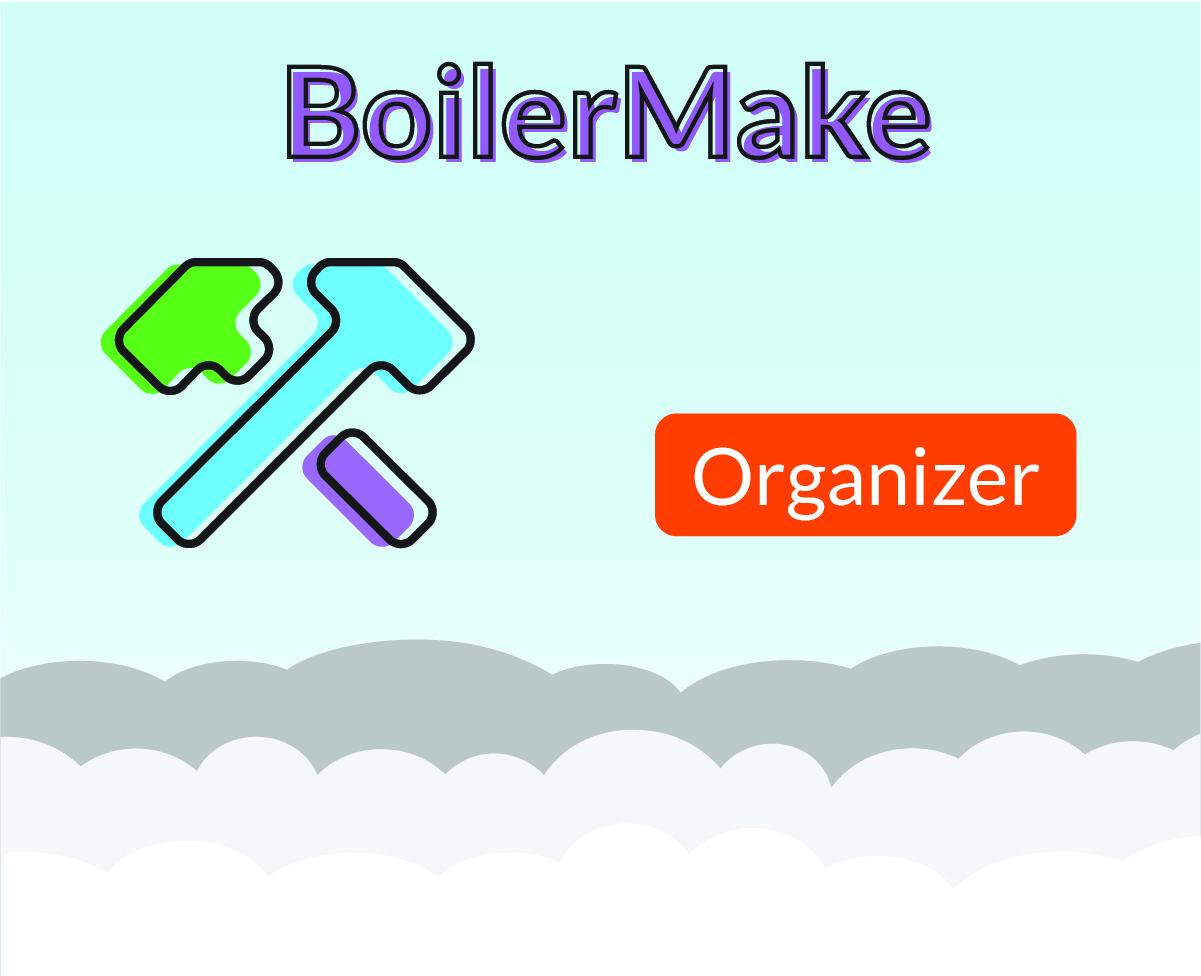
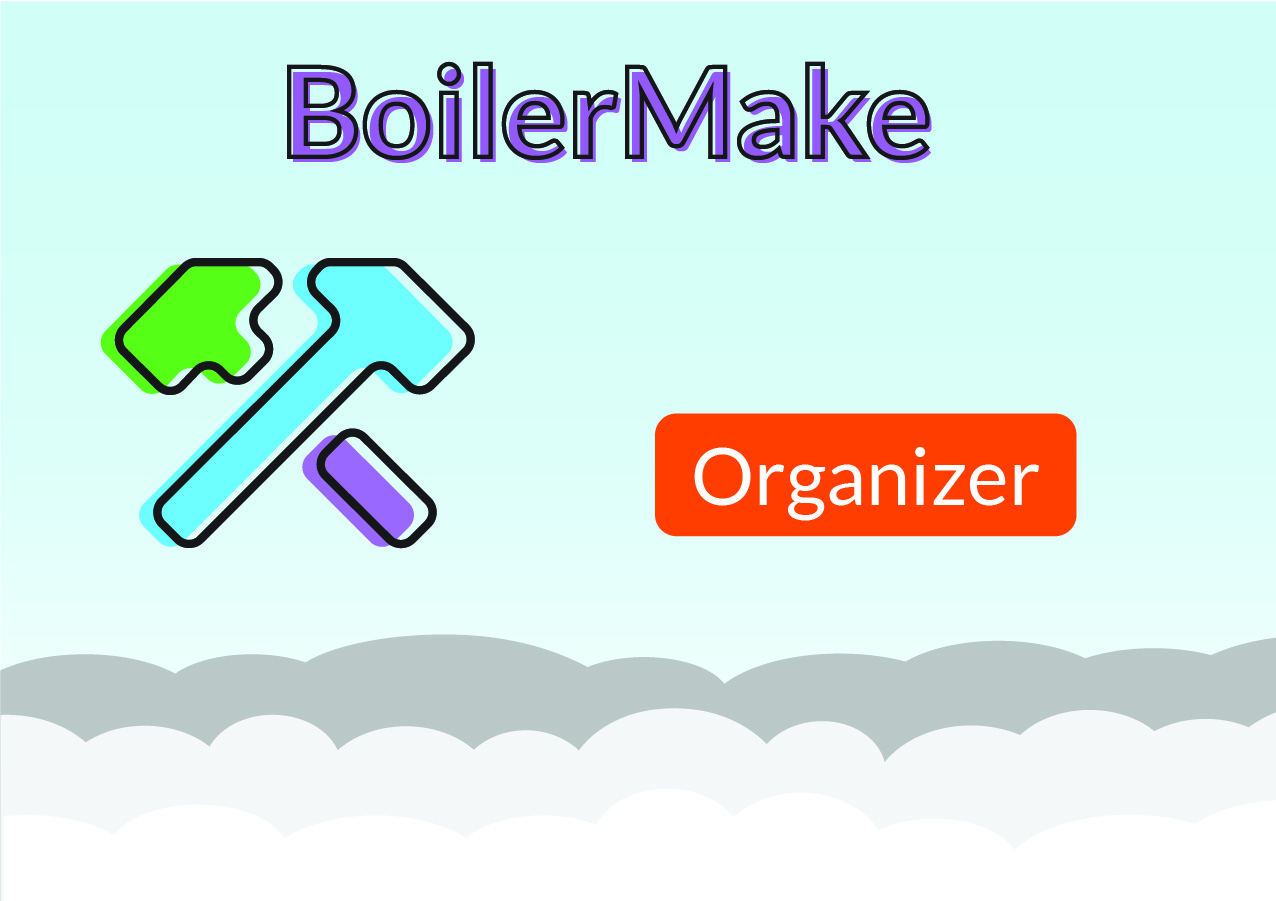
Fixed offsets and sizing for access cards. Now on letter sized vs A4 paper

diff --git a/HackerCardGenerator.py b/HackerCardGenerator.py
@@ -7,14 +7,14 @@ Since: 10/16/2018
 import csv
 from reportlab.pdfgen import canvas
 from reportlab.lib.units import inch
+from reportlab.lib.pagesizes import letter
 from reportlab.pdfbase import pdfmetrics
 from reportlab.pdfbase.ttfonts import TTFont
 
 # Constant Values. Do not change
-edge_offset = .15 * inch
-bottom_offset = 1 * inch
-AC_width = 4 * inch
-AC_height = 3.25 * inch
+bottom_offset = 2 * inch
+AC_width = 4.25 * inch
+AC_height = 3 * inch
 
 # Variable Values, change depending on the needs / paths.
 font_name = "Lato-Regular"
@@ -24,7 +24,7 @@ icon_path = "Resources/language_icons_jpg/"
 pdf_file_name = "hackers.pdf"
 
 # Define our canvas.
-c = canvas.Canvas(pdf_file_name)
+c = canvas.Canvas(pdf_file_name, pagesize=letter)
 
 # Import font from .ttf file.
 pdfmetrics.registerFont(TTFont(font_name, font_path))
@@ -58,10 +58,10 @@ class Person:
             self.university = "IUPUI"
         elif university == "Indiana University/Purdue University at Fort Wayne":
             self.university = "IPFW"
-        elif university == "University of Illinois-Urbana-Champaign":
-            self.university = "UIUC"
-        elif university == "Rose-Hulman Institute of Technology":
-            self.university = "RHIT"
+        # elif university == "University of Illinois-Urbana-Champaign":
+        #     self.university = "UIUC"
+        # elif university == "Rose-Hulman Institute of Technology":
+        #     self.university = "RHIT"
 
 
 def draw_left(i, hacker):
@@ -73,49 +73,49 @@ def draw_left(i, hacker):
     """
 
     # Draws an empty badge on the canvas.
-    c.drawImage(jpg_path, edge_offset, bottom_offset + i * AC_height, width=AC_width,
+    c.drawImage(jpg_path, 0, bottom_offset + i * AC_height, width=AC_width,
                 height=AC_height, mask=None)
 
     # Check length of hacker name to set the font.
-    if hacker.name_len <= 18:
+    if hacker.name_len <= 22:
         c.setFont(font_name, 16)
     else:
-        c.setFont(font_name, 12)
+        c.setFont(font_name, 14)
 
     # Draws the first and last name on the badge.
-    c.drawCentredString(x=edge_offset + 2.9 * inch, y=bottom_offset + 2.25 * inch + i * AC_height,
+    c.drawCentredString(x=2.9 * inch, y=bottom_offset + 2 * inch + i * AC_height,
                         text=hacker.first_name + " " + hacker.last_name)
 
     # Draws the school on the badge.
     c.setFont(font_name, 10)
-    c.drawCentredString(x=edge_offset + 2.9 * inch, y=bottom_offset + 2 * inch + i * AC_height,
+    c.drawCentredString(x=0 + 2.9 * inch, y=bottom_offset + 1.75 * inch + i * AC_height,
                         text=hacker.university)
 
     # Draws the skill icon(s) on the badge, depending if they have 1, 2, or 3 skills.
     if len(hacker.skills) == 1 and hacker.skills[0] != "null" and hacker.skills[0].strip('\\') != "":
-        c.drawImage(icon_path + hacker.skills[0].strip('\\') + ".jpg", edge_offset + 1.75 * inch,
+        c.drawImage(icon_path + hacker.skills[0].strip('\\') + ".jpg", 1.875 * inch,
                     bottom_offset + 0.1 * inch + i * AC_height, width=30, height=30, mask=None)
     elif len(hacker.skills) == 2:
         n = 0
         for skill in hacker.skills:
             if n == 1:
-                c.drawImage(icon_path + skill.strip('\\') + ".jpg", edge_offset + 1.375 * inch,
+                c.drawImage(icon_path + skill.strip('\\') + ".jpg", 1.425 * inch,
                             bottom_offset + 0.1 * inch + i * AC_height, width=30, height=30, mask=None)
             else:
-                c.drawImage(icon_path + skill.strip('\\') + ".jpg", edge_offset + 2.125 * inch,
+                c.drawImage(icon_path + skill.strip('\\') + ".jpg", 2.325 * inch,
                             bottom_offset + 0.1 * inch + i * AC_height, width=30, height=30, mask=None)
             n += 1
     elif len(hacker.skills) == 3:
         n = 0
         for skill in hacker.skills:
             if n == 0:
-                c.drawImage(icon_path + skill.strip('\\') + ".jpg", edge_offset + 1.063 * inch,
+                c.drawImage(icon_path + skill.strip('\\') + ".jpg", 1.175 * inch,
                             bottom_offset + 0.1 * inch + i * AC_height, width=30, height=30, mask=None)
             elif n == 1:
-                c.drawImage(icon_path + skill.strip('\\') + ".jpg", edge_offset + 1.75 * inch,
+                c.drawImage(icon_path + skill.strip('\\') + ".jpg", 1.875 * inch,
                             bottom_offset + 0.1 * inch + i * AC_height, width=30, height=30, mask=None)
             else:
-                c.drawImage(icon_path + skill.strip('\\') + ".jpg", edge_offset + 2.437 * inch,
+                c.drawImage(icon_path + skill.strip('\\') + ".jpg", 2.575 * inch,
                             bottom_offset + 0.1 * inch + i * AC_height, width=30, height=30, mask=None)
             n += 1
 
@@ -129,49 +129,49 @@ def draw_right(i, hacker):
     """
 
     # Draws an empty badge on the canvas.
-    c.drawImage(jpg_path, edge_offset + AC_width, bottom_offset + i * AC_height, width=AC_width,
+    c.drawImage(jpg_path, AC_width, bottom_offset + i * AC_height, width=AC_width,
                 height=AC_height, mask=None)
 
     # Checks for the length of the name to set the font size.
-    if hacker.name_len <= 18:
+    if hacker.name_len <= 22:
         c.setFont(font_name, 16)
     else:
-        c.setFont(font_name, 12)
+        c.setFont(font_name, 14)
 
     # Draws the full name on the badge.
-    c.drawCentredString(x=edge_offset + 2.9 * inch + AC_width, y=bottom_offset + 2.25 * inch + i * AC_height,
+    c.drawCentredString(x=2.9 * inch + AC_width, y=bottom_offset + 2 * inch + i * AC_height,
                         text=hacker.first_name + " " + hacker.last_name)
 
     # Draws the school on the badge.
     c.setFont(font_name, 10)
-    c.drawCentredString(x=edge_offset + 2.9 * inch + AC_width, y=bottom_offset + 2 * inch + i * AC_height,
+    c.drawCentredString(x=0 + 2.9 * inch + AC_width, y=bottom_offset + 1.75 * inch + i * AC_height,
                         text=hacker.university)
 
     # Draws the skill icon(s) on the badge, depending if they have 1, 2, or 3 skills.
     if len(hacker.skills) == 1 and hacker.skills[0] != "null" and hacker.skills[0].strip('\\') != "":
-        c.drawImage(icon_path + hacker.skills[0].strip('\\') + ".jpg", edge_offset + 1.75 * inch + AC_width,
+        c.drawImage(icon_path + hacker.skills[0].strip('\\') + ".jpg", 1.875 * inch + AC_width,
                     bottom_offset + 0.1 * inch + i * AC_height, width=30, height=30, mask=None)
     elif len(hacker.skills) == 2:
         n = 0
         for skill in hacker.skills:
             if n == 1:
-                c.drawImage(icon_path + skill.strip('\\') + ".jpg", edge_offset + 1.375 * inch + AC_width,
+                c.drawImage(icon_path + skill.strip('\\') + ".jpg", 1.425 * inch + AC_width,
                             bottom_offset + 0.1 * inch + i * AC_height, width=30, height=30, mask=None)
             else:
-                c.drawImage(icon_path + skill.strip('\\') + ".jpg", edge_offset + 2.125 * inch + AC_width,
+                c.drawImage(icon_path + skill.strip('\\') + ".jpg", 2.325 * inch + AC_width,
                             bottom_offset + 0.1 * inch + i * AC_height, width=30, height=30, mask=None)
             n += 1
     elif len(hacker.skills) == 3:
         n = 0
         for skill in hacker.skills:
             if n == 0:
-                c.drawImage(icon_path + skill.strip('\\') + ".jpg", edge_offset + 1.063 * inch + AC_width,
+                c.drawImage(icon_path + skill.strip('\\') + ".jpg", 1.175 * inch + AC_width,
                             bottom_offset + 0.1 * inch + i * AC_height, width=30, height=30, mask=None)
             elif n == 1:
-                c.drawImage(icon_path + skill.strip('\\') + ".jpg", edge_offset + 1.75 * inch + AC_width,
+                c.drawImage(icon_path + skill.strip('\\') + ".jpg", 1.875 * inch + AC_width,
                             bottom_offset + 0.1 * inch + i * AC_height, width=30, height=30, mask=None)
             else:
-                c.drawImage(icon_path + skill.strip('\\') + ".jpg", edge_offset + 2.437 * inch + AC_width,
+                c.drawImage(icon_path + skill.strip('\\') + ".jpg", 2.575 * inch + AC_width,
                             bottom_offset + 0.1 * inch + i * AC_height, width=30, height=30, mask=None)
             n += 1
 

diff --git a/SponsorCardGenerator.py b/SponsorCardGenerator.py
@@ -1,5 +1,5 @@
 """
-Python script to generate the Executive team badges for Boilermake VI
+Python script to generate the Sponsor badges for Boilermake VI
 
 Author: Ken Sodetz
 Since: 10/17/2018
@@ -7,7 +7,6 @@ Since: 10/17/2018
 import csv
 from reportlab.pdfgen import canvas
 from reportlab.lib.units import inch
-from reportlab.lib.pagesizes import letter
 from reportlab.pdfbase import pdfmetrics
 from reportlab.pdfbase.ttfonts import TTFont
 
@@ -15,40 +14,41 @@ from reportlab.pdfbase.ttfonts import TTFont
 pdfmetrics.registerFont(TTFont('Lato-Regular', 'Resources/Lato/Lato-Regular.ttf'))
 
 # Constant Values
-bottom_offset = 2 * inch
-AC_width = 4.25 * inch
-AC_height = 3 * inch
-jpg_path = "Resources/AccessCardsJpg/AC_Exec.jpg"
+edge_offset = .15 * inch
+bottom_offset = 1 * inch
+AC_width = 4 * inch
+AC_height = 3.25 * inch
+jpg_path = "Resources/AccessCardsJpg/AC_Sponsor.jpg"
 
 # Define our canvas
-c = canvas.Canvas('execs.pdf', pagesize=letter)
+c = canvas.Canvas('sponsors.pdf')
 
 
 # Left row of cards
-def draw_left(i, name):
-    c.drawImage(jpg_path, 0, bottom_offset + i * AC_height, width=AC_width,
+def draw_left(i, name, company):
+    c.drawImage(jpg_path, edge_offset, bottom_offset + i * AC_height, width=AC_width,
                 height=AC_height, mask=None)
     c.setFont("Lato-Regular", 16)
-    c.drawCentredString(x=0 + 2.9 * inch, y=bottom_offset + 2.25 * inch + i * AC_height, text=name)
-    c.setFont("Lato-Regular", 10)
-    c.drawCentredString(x=0 + 2.9 * inch, y=bottom_offset + 2 * inch + i * AC_height,
-                        text="Purdue University")
+    c.drawCentredString(x=edge_offset + 2.9 * inch, y=bottom_offset + 2.25 * inch + i * AC_height, text=name)
+    c.setFont("Lato-Regular", 19)
+    c.drawCentredString(x=edge_offset + 2.9 * inch, y=bottom_offset + 2 * inch + i * AC_height,
+                        text=company)
 
 
 # Right row of cards
-def draw_right(i, name):
-    c.drawImage(jpg_path, 0 + AC_width, bottom_offset + i * AC_height, width=AC_width,
+def draw_right(i, name, company):
+    c.drawImage(jpg_path, edge_offset + AC_width, bottom_offset + i * AC_height, width=AC_width,
                 height=AC_height, mask=None)
     c.setFont("Lato-Regular", 16)
-    c.drawCentredString(x=0 + 2.9 * inch + AC_width, y=bottom_offset + 2.25 * inch + i * AC_height,
+    c.drawCentredString(x=edge_offset + 2.9 * inch + AC_width, y=bottom_offset + 2.25 * inch + i * AC_height,
                         text=name)
     c.setFont("Lato-Regular", 10)
-    c.drawCentredString(x=0 + 2.9 * inch + AC_width, y=bottom_offset + 2 * inch + i * AC_height,
-                        text="Purdue University")
+    c.drawCentredString(x=edge_offset + 2.9 * inch + AC_width, y=bottom_offset + 2 * inch + i * AC_height,
+                        text=company)
 
 
 # Open CSV file.
-with open('execs.csv', mode='r') as csv_file:
+with open('sponsors.csv', mode='r') as csv_file:
     csv_reader = csv.reader(csv_file, delimiter=',')
     line_count = 0
     row_num = 0
